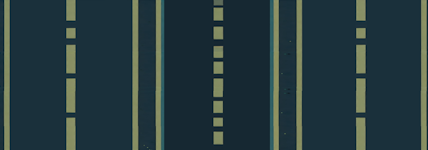
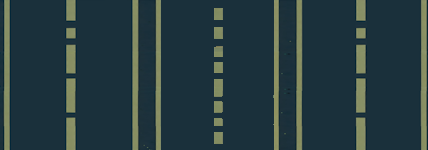
fix visual bugs

diff --git a/hackton/car.py b/hackton/car.py
@@ -30,6 +30,8 @@ red_car = pygame.image.load("assets/red_car.png")
 
 background = pygame.image.load("assets/background2.png")
 
+bajaj = pygame.image.load("assets/bajaj_coin.png")
+
 player_x = 418
 
 player_y = 600
@@ -159,7 +161,7 @@ def draw_cars(car_rows, ticks):
         for car_new in row:
 
             car_new.bottom += ticks
-            pygame.draw.rect(screen, (255, 0, 255), car_new)
+            pygame.draw.rect(screen, (26, 48, 59), car_new)
             screen.blit(red_car, (car_new.left, car_new.top))
 
             if (pygame.Rect.colliderect(car, car_new)):
@@ -213,7 +215,7 @@ def draw_road(road, ticks):
 
 
 def draw_car(pos):
-    pygame.draw.rect(screen, (255, 0, 0), car)
+    pygame.draw.rect(screen, (26, 48, 59), car)
 
 
 road_centers = spawn_road(700 // road_height + 2)
